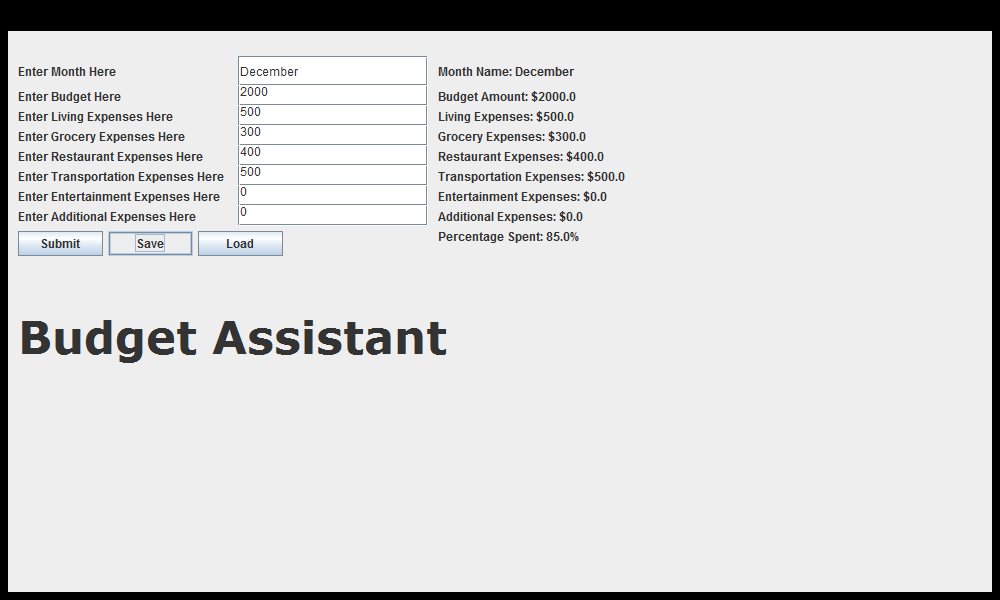
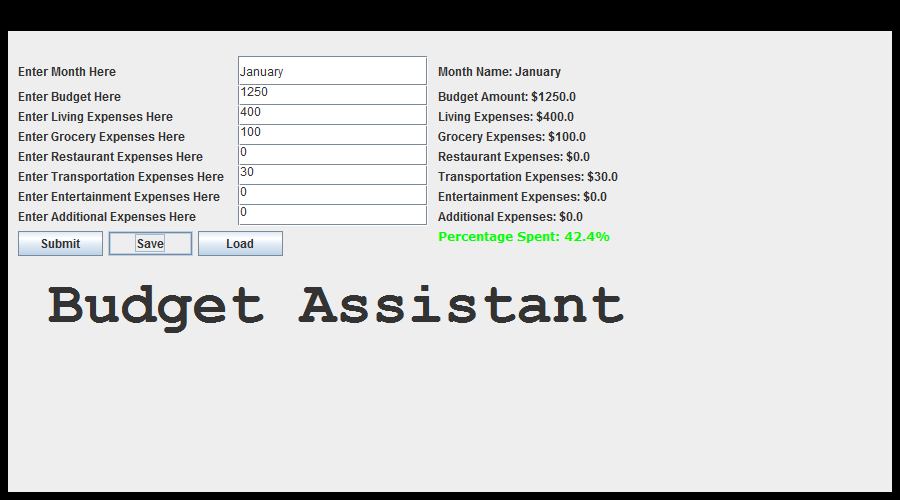
Phase 3: Task 1 In-Progress UPDATE 14 Personal Project "Budget Assistant"

Changed region(s): [[0.0, 0.09, 0.7156, 0.66], [0.0, 0.96, 0.9956, 0.99], [0.0, 0.03, 0.9956, 0.06]]

diff --git a/src/main/ui/MyUI.java b/src/main/ui/MyUI.java
@@ -11,6 +11,7 @@ import java.util.*;
 import javax.imageio.ImageIO;
 import javax.swing.*;
 import javax.sound.sampled.*;
+import javax.swing.border.EmptyBorder;
 import javax.swing.table.DefaultTableModel;
 
 import javafx.scene.input.InputMethodTextRun;
@@ -168,7 +169,7 @@ public abstract class MyUI implements ActionListener {
     // GUI method, split into multiple methods due to checkstyle line constraint
     public void gui() {
         frame = new JFrame();
-        frame.setSize(1000, 600);
+        frame.setSize(900, 500);
         frame.setDefaultCloseOperation(JFrame.EXIT_ON_CLOSE);
         panel = new JPanel();
         frame.add(panel);
@@ -216,9 +217,9 @@ public abstract class MyUI implements ActionListener {
         panel.add(additionalExpensesHere);
 
         budgetAssistant = new JLabel("Budget Assistant");
-        budgetAssistant.setBounds(10, 180, 1000, 30);
+        budgetAssistant.setBounds(40, 150, 1000, 30);
         budgetAssistant.setSize(600, 250);
-        budgetAssistant.setFont(new Font("Verdana", Font.BOLD, 45));
+        budgetAssistant.setFont(new Font("Courier New", Font.BOLD, 60));
 
         gui3();
     }
@@ -306,6 +307,8 @@ public abstract class MyUI implements ActionListener {
         percentage = new JLabel("Percent Spent: %");
         percentage.setBounds(430, 190, 200, 30);
         panel.add(percentage);
+        percentage.setForeground(Color.GREEN);
+        percentage.setFont(new Font("Verdana", Font.BOLD, 12));
 
         gui6();
     }
